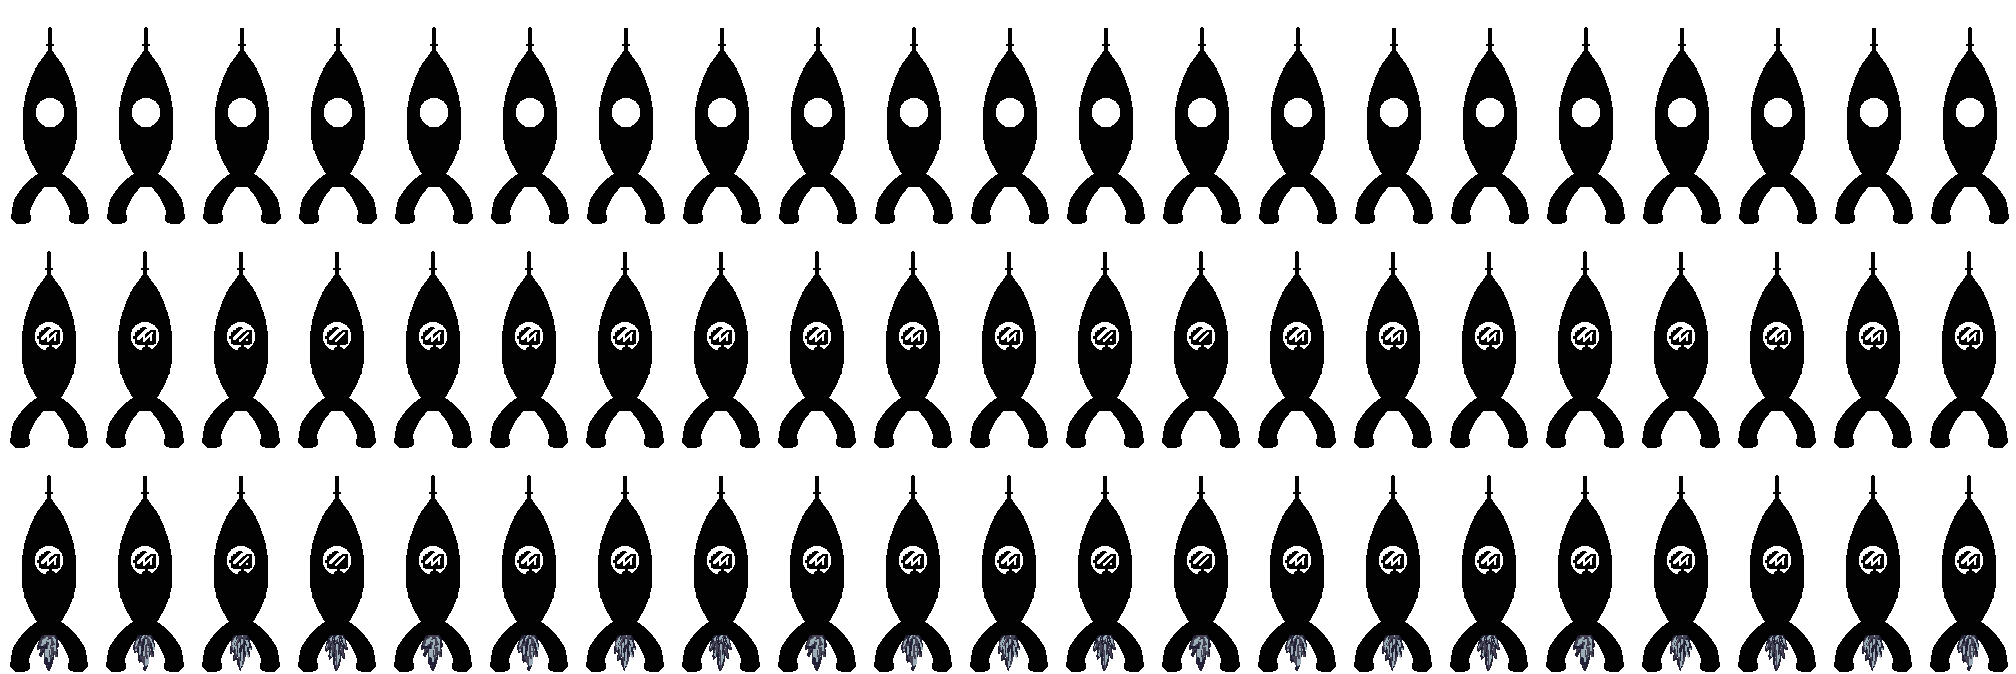
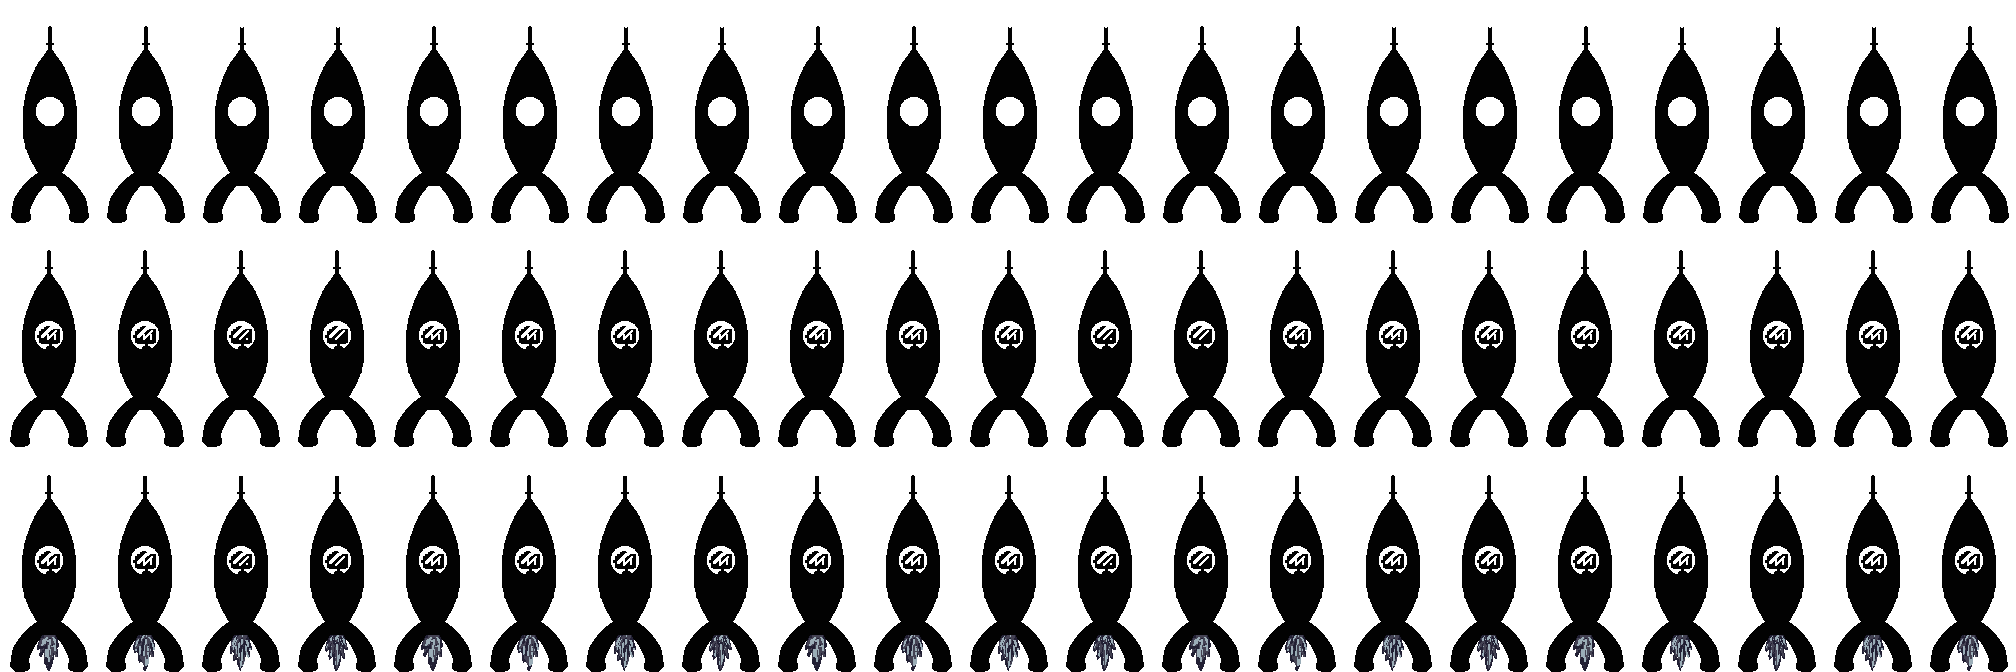
Done : Clean starship and pause stars on goToHome

diff --git a/frontend/src/components/Game/Player/PlayerActive.js b/frontend/src/components/Game/Player/PlayerActive.js
@@ -171,7 +171,6 @@ export class ActivePlayer extends Player {
                 this.position.y <= starShip.position.y + starShip.spriteHeight * 1.5 &&
                 this.position.y + this.height >= starShip.position.y
             ) {
-                console.log("Okeeeey");
                 starShip.launching = true;
                 this.position.x = starShip.position.x;
                 this.position.y = starShip.position.y;
@@ -179,6 +178,12 @@ export class ActivePlayer extends Player {
                 this.gravity = 0;
                 this.sprite = "";
             }
+        }
+    }
+
+    pausingStarship() {
+        if (this.starShip) {
+            this.starShip.pause = true;
         }
     }
 

diff --git a/frontend/src/components/Game/Environnement/Starship.js b/frontend/src/components/Game/Environnement/Starship.js
@@ -39,6 +39,7 @@ export default class Starship {
         ];
 
         this.launching = false;
+        this.pause = false;
         this.speedStarship = 0.6;
         this.color = "transparent";
         this.flyingStars = false;
@@ -80,6 +81,9 @@ export default class Starship {
         );
         if (!this.launching) {
             this.update("IDLE");
+        } else if (this.pause) {
+            this.update("LAUNCH");
+            this.stars.starAdding = false;
         } else {
             this.update("LAUNCH");
             this.stars.starAdding = true;

diff --git a/frontend/src/components/CanvasTest.jsx b/frontend/src/components/CanvasTest.jsx
@@ -67,6 +67,7 @@ export default function CanvasTest({
                 }, 1500);
             }
             if (goToHome) {
+                playerRef.current.pausingStarship();
                 handleGoToHome();
 
                 setTimeout(() => {
